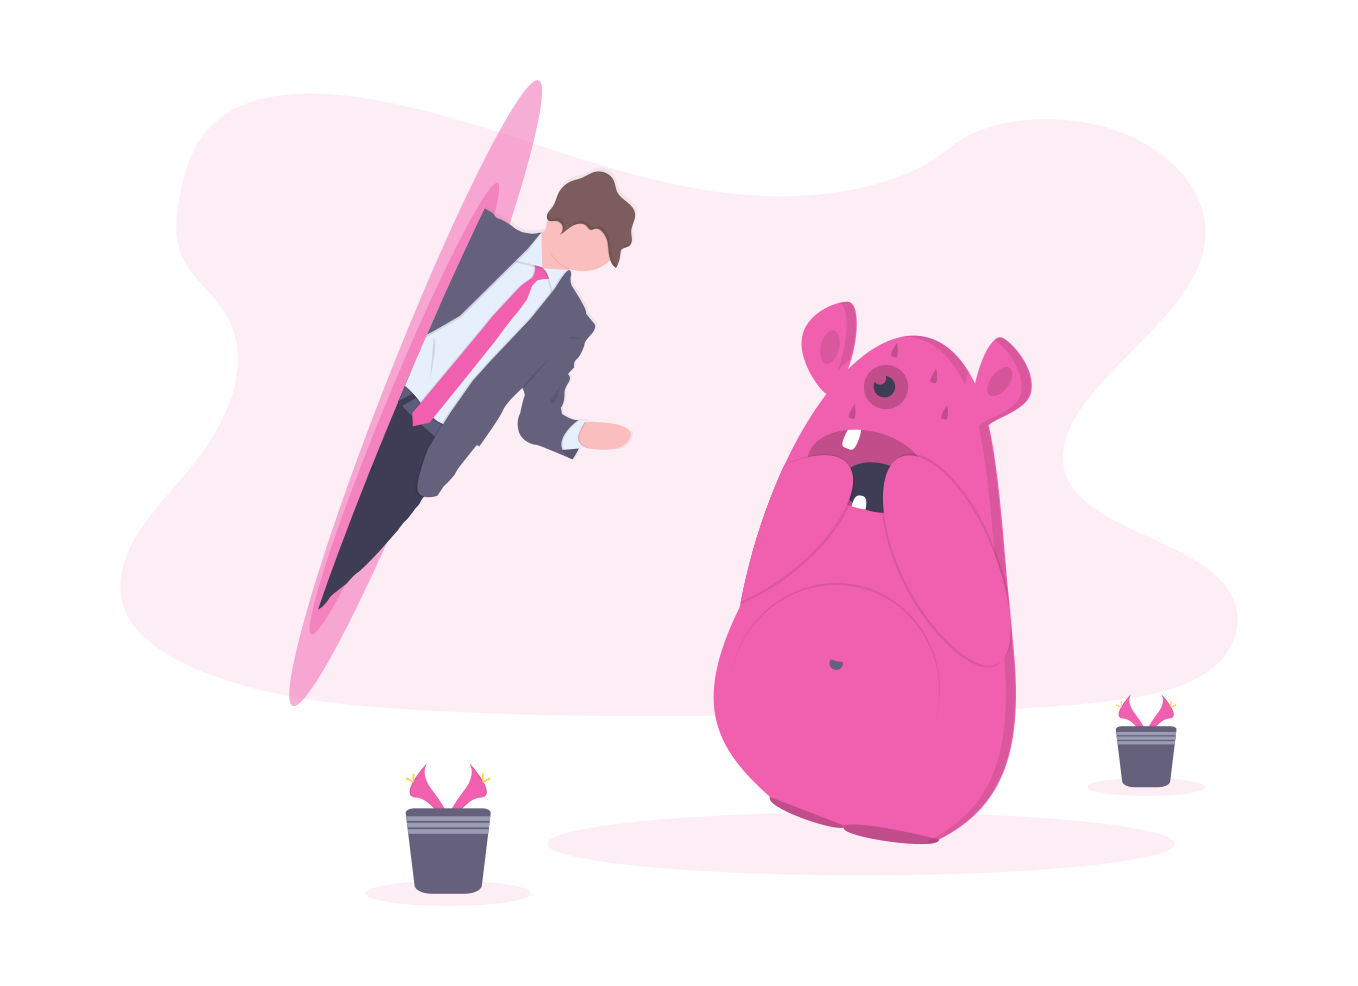
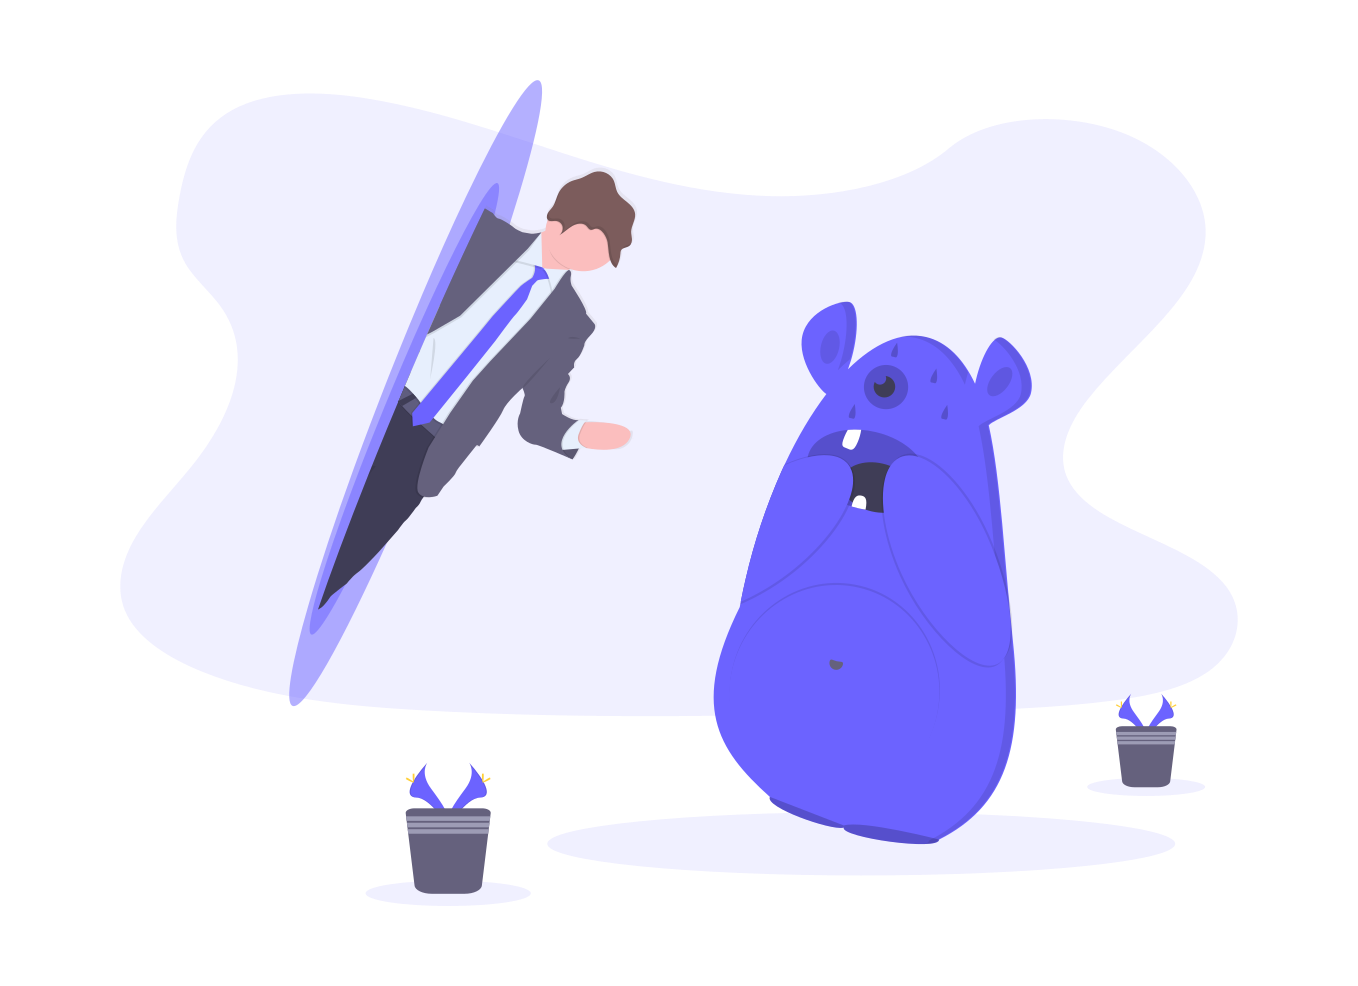
feat: completed sign up screen and input field widget

diff --git a/lib/task_3/sign_up.dart b/lib/task_3/sign_up.dart
@@ -1,10 +1,8 @@
-import 'dart:ui';
-
-import 'package:flutter/cupertino.dart';
 import 'package:flutter/material.dart';
-import 'package:flutter/widgets.dart';
 import 'package:google_fonts/google_fonts.dart';
+
 import 'package:kode_camp_task/components/my_button.dart';
+import 'package:kode_camp_task/components/my_input_field.dart';
 import 'package:kode_camp_task/components/my_text_widget.dart';
 
 class SignUp extends StatefulWidget {
@@ -16,12 +14,18 @@ class SignUp extends StatefulWidget {
 }
 
 class _SignUpState extends State<SignUp> {
+  bool accepted = false;
+  bool hidePass = true;
+
   @override
   Widget build(BuildContext context) {
     final height = MediaQuery.of(context).size.height;
     final width = MediaQuery.of(context).size.width;
     return Scaffold(
-      appBar: AppBar(backgroundColor: Colors.white),
+      appBar: AppBar(
+        backgroundColor: Colors.white,
+        automaticallyImplyLeading: false,
+      ),
       backgroundColor: Colors.white,
       body: SingleChildScrollView(
         child: Padding(
@@ -35,12 +39,73 @@ class _SignUpState extends State<SignUp> {
                 fontWeight: FontWeight.w600,
               ),
               SizedBox(height: height * .04),
-              const MyText(
-                text: 'Name',
-                fontSize: 15,
-                fontWeight: FontWeight.w600,
+              MyInputField(
+                labelText: 'Name',
+                keyType: TextInputType.name,
+                onChanged: (p0) {},
               ),
-              SizedBox(height: height * .06),
+              SizedBox(height: height * .03),
+              MyInputField(
+                labelText: 'Email',
+                keyType: TextInputType.emailAddress,
+                onChanged: (p0) {},
+              ),
+              SizedBox(height: height * .03),
+              MyInputField(
+                labelText: 'Password',
+                keyType: TextInputType.visiblePassword,
+                isPassword: hidePass,
+                onChanged: (p0) {},
+                suffixIcon: Icon(
+                  hidePass
+                      ? Icons.visibility_outlined
+                      : Icons.visibility_off_outlined,
+                ),
+                iconPressed: () {
+                  setState(() {
+                    hidePass = !hidePass;
+                  });
+                },
+              ),
+              SizedBox(height: height * .04),
+              Row(
+                mainAxisAlignment: MainAxisAlignment.spaceBetween,
+                children: [
+                  Text.rich(
+                    TextSpan(
+                        text: 'Accept ',
+                        style: GoogleFonts.montserrat(
+                          fontWeight: FontWeight.w600,
+                          fontSize: 15,
+                        ),
+                        children: [
+                          TextSpan(
+                            text: 'Terms and Conditions',
+                            style: GoogleFonts.montserrat(
+                              fontWeight: FontWeight.w600,
+                              color: primaryColor,
+                              fontSize: 15,
+                            ),
+                          )
+                        ]),
+                  ),
+                  Transform.scale(
+                    scaleX: 0.65,
+                    scaleY: 0.65,
+                    child: Switch.adaptive(
+                        activeColor: primaryColor,
+                        trackOutlineColor:
+                            const MaterialStatePropertyAll(Colors.transparent),
+                        value: accepted,
+                        onChanged: (value) {
+                          setState(() {
+                            accepted = !accepted;
+                          });
+                        }),
+                  )
+                ],
+              ),
+              SizedBox(height: height * .04),
               MyButton(
                 title: 'Register',
                 onTap: () {},
@@ -90,6 +155,29 @@ class _SignUpState extends State<SignUp> {
                 ),
                 title: 'Google',
                 onTap: () {},
+              ),
+              SizedBox(height: height * .03),
+              Center(
+                child: Text.rich(
+                  TextSpan(
+                      text: 'Do you have an account? ',
+                      style: GoogleFonts.montserrat(
+                        fontWeight: FontWeight.w400,
+                        fontSize: 15,
+                      ),
+                      children: [
+                        TextSpan(
+                          // recognizer: TapGestureRecognizer()
+                          //   ..onTap =
+                          //       () => Navigator.pushNamed(context, '/no-login'),
+                          text: 'Just register',
+                          style: GoogleFonts.montserrat(
+                            fontWeight: FontWeight.w600,
+                            fontSize: 15,
+                          ),
+                        ),
+                      ]),
+                ),
               ),
             ],
           ),

diff --git a/lib/components/my_input_field.dart b/lib/components/my_input_field.dart
@@ -1,0 +1,89 @@
+import 'package:flutter/material.dart';
+import 'package:flutter/widgets.dart';
+import 'package:google_fonts/google_fonts.dart';
+import 'package:kode_camp_task/components/my_button.dart';
+
+import 'package:kode_camp_task/components/my_text_widget.dart';
+
+class MyInputField extends StatelessWidget {
+  final TextInputType? keyType;
+  final TextEditingController? controller;
+  final TextStyle? textStyle;
+  final String? Function(String?)? validator;
+  final void Function(String)? onChanged;
+  final bool isPassword;
+  final String labelText;
+  final String? hintText;
+  final Widget? suffixIcon;
+  final void Function()? iconPressed;
+
+  const MyInputField({
+    super.key,
+    this.keyType,
+    this.controller,
+    this.textStyle,
+    this.validator,
+    this.onChanged,
+    this.isPassword = false,
+    required this.labelText,
+    this.hintText,
+    this.suffixIcon,
+    this.iconPressed,
+  });
+
+  @override
+  Widget build(BuildContext context) {
+    return Column(
+      crossAxisAlignment: CrossAxisAlignment.start,
+      children: [
+        MyText(
+          text: labelText,
+          fontSize: 15,
+          fontWeight: FontWeight.w600,
+        ),
+        const SizedBox(height: 8),
+        TextFormField(
+          keyboardType: keyType,
+          obscureText: isPassword,
+          validator: validator,
+          onChanged: onChanged,
+          style: GoogleFonts.montserrat(
+            fontSize: 15,
+            fontWeight: FontWeight.w500,
+            color: Colors.black,
+          ),
+          decoration: InputDecoration(
+            contentPadding: const EdgeInsets.all(10),
+            hintText: hintText,
+            suffixIcon: suffixIcon != null
+                ? GestureDetector(
+                    onTap: iconPressed,
+                    child: suffixIcon,
+                  )
+                : null,
+            focusedBorder: OutlineInputBorder(
+              borderSide: const BorderSide(width: 1, color: primaryColor),
+              borderRadius: BorderRadius.circular(10),
+            ),
+            errorBorder: OutlineInputBorder(
+              borderSide: const BorderSide(width: 1, color: Colors.red),
+              borderRadius: BorderRadius.circular(10),
+            ),
+            enabledBorder: OutlineInputBorder(
+                borderSide: const BorderSide(
+                    width: 1, color: Color.fromARGB(255, 212, 210, 210)),
+                borderRadius: BorderRadius.circular(10)),
+            focusedErrorBorder: OutlineInputBorder(
+                borderSide: const BorderSide(width: 1, color: Colors.red),
+                borderRadius: BorderRadius.circular(10)),
+            disabledBorder: OutlineInputBorder(
+              borderSide: const BorderSide(
+                  width: 1, color: Color.fromARGB(255, 212, 210, 210)),
+              borderRadius: BorderRadius.circular(10),
+            ),
+          ),
+        ),
+      ],
+    );
+  }
+}

diff --git a/lib/task_3/no_login.dart b/lib/task_3/no_login.dart
@@ -1,5 +1,6 @@
 import 'package:flutter/material.dart';
 import 'package:google_fonts/google_fonts.dart';
+import 'package:kode_camp_task/components/my_button.dart';
 import 'package:kode_camp_task/task_3/sign_up.dart';
 
 class NoLogin extends StatelessWidget {
@@ -24,7 +25,7 @@ class NoLogin extends StatelessWidget {
           crossAxisAlignment: CrossAxisAlignment.center,
           mainAxisAlignment: MainAxisAlignment.center,
           children: [
-            Image.asset('assets/images/startled.png'),
+            Image.asset(startled),
             const SizedBox(height: 20),
             Text(
               'Oops... No Login found!',
@@ -36,6 +37,7 @@ class NoLogin extends StatelessWidget {
             const SizedBox(height: 20),
             TextButton(
               onPressed: () {
+                Navigator.pop(context);
                 Navigator.pushReplacementNamed(context, SignUp.routeName);
               },
               child: Text(

diff --git a/lib/components/my_button.dart b/lib/components/my_button.dart
@@ -43,9 +43,9 @@ class MyButton extends StatelessWidget {
             width: outline ? 1.0 : 0.0,
             color: outline
                 ? const Color.fromARGB(255, 212, 210, 210)
-                : const Color(0xffF160AE),
+                : primaryColor,
           ),
-          color: outline ? Colors.white : const Color(0xffF160AE),
+          color: outline ? Colors.white : primaryColor,
         ),
         child: Center(
           child: Row(
@@ -68,3 +68,11 @@ class MyButton extends StatelessWidget {
     );
   }
 }
+
+//Konstant color values
+const primaryColor = Color(0xff6C63FF);
+const optionalColor = Color(0xffF160AE);
+
+//Konstant values for Images used in app
+const startled = 'assets/images/startled.png';
+const startup = 'assets/images/startup.png';

diff --git a/lib/task_3/onboard.dart b/lib/task_3/onboard.dart
@@ -25,7 +25,7 @@ class _OnBoardState extends State<OnBoard> {
           crossAxisAlignment: CrossAxisAlignment.center,
           children: [
             Center(
-              child: Image.asset('assets/images/startup.png'),
+              child: Image.asset(startup),
             ),
             SizedBox(height: height * .06),
             Text.rich(
@@ -49,7 +49,7 @@ class _OnBoardState extends State<OnBoard> {
                       style: GoogleFonts.montserrat(
                         fontWeight: FontWeight.w700,
                         fontSize: 25,
-                        color: const Color(0xffF160AE),
+                        color: primaryColor,
                       ),
                     ),
                     TextSpan(

diff --git a/lib/main.dart b/lib/main.dart
@@ -1,4 +1,5 @@
 import 'package:flutter/material.dart';
+import 'package:kode_camp_task/components/my_button.dart';
 
 import 'package:kode_camp_task/task_3/no_login.dart';
 import 'package:kode_camp_task/task_3/onboard.dart';
@@ -18,7 +19,7 @@ class MyApp extends StatelessWidget {
       debugShowCheckedModeBanner: false,
       theme: ThemeData(
         colorScheme: ColorScheme.fromSeed(
-          seedColor: const Color(0xffF160AE),
+          seedColor: primaryColor,
         ),
         useMaterial3: true,
       ),
